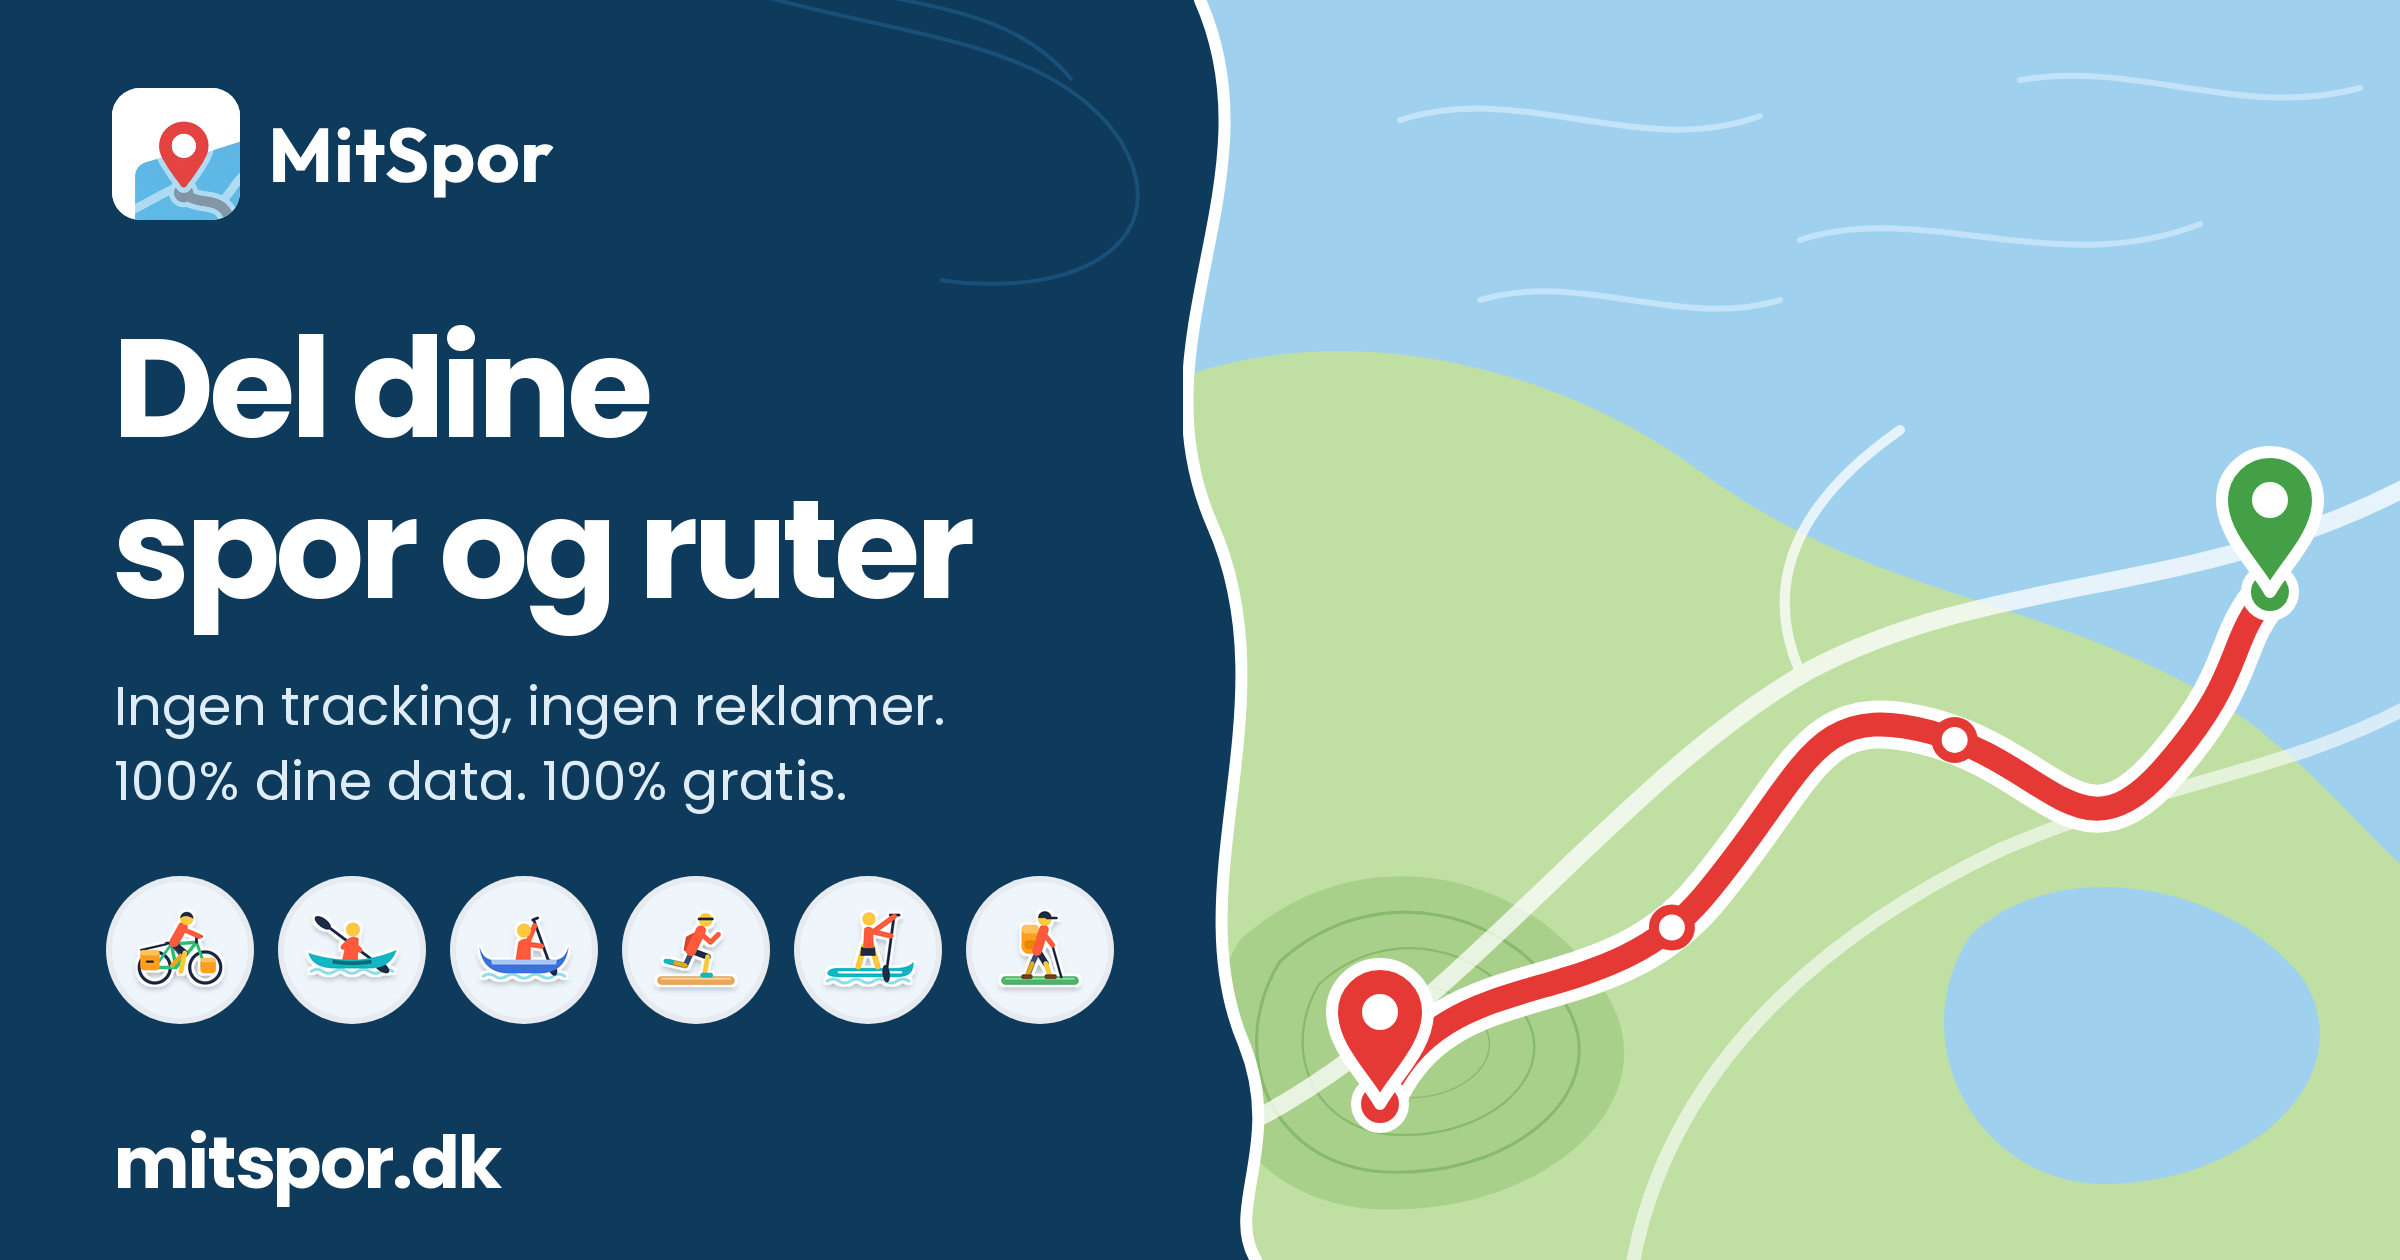
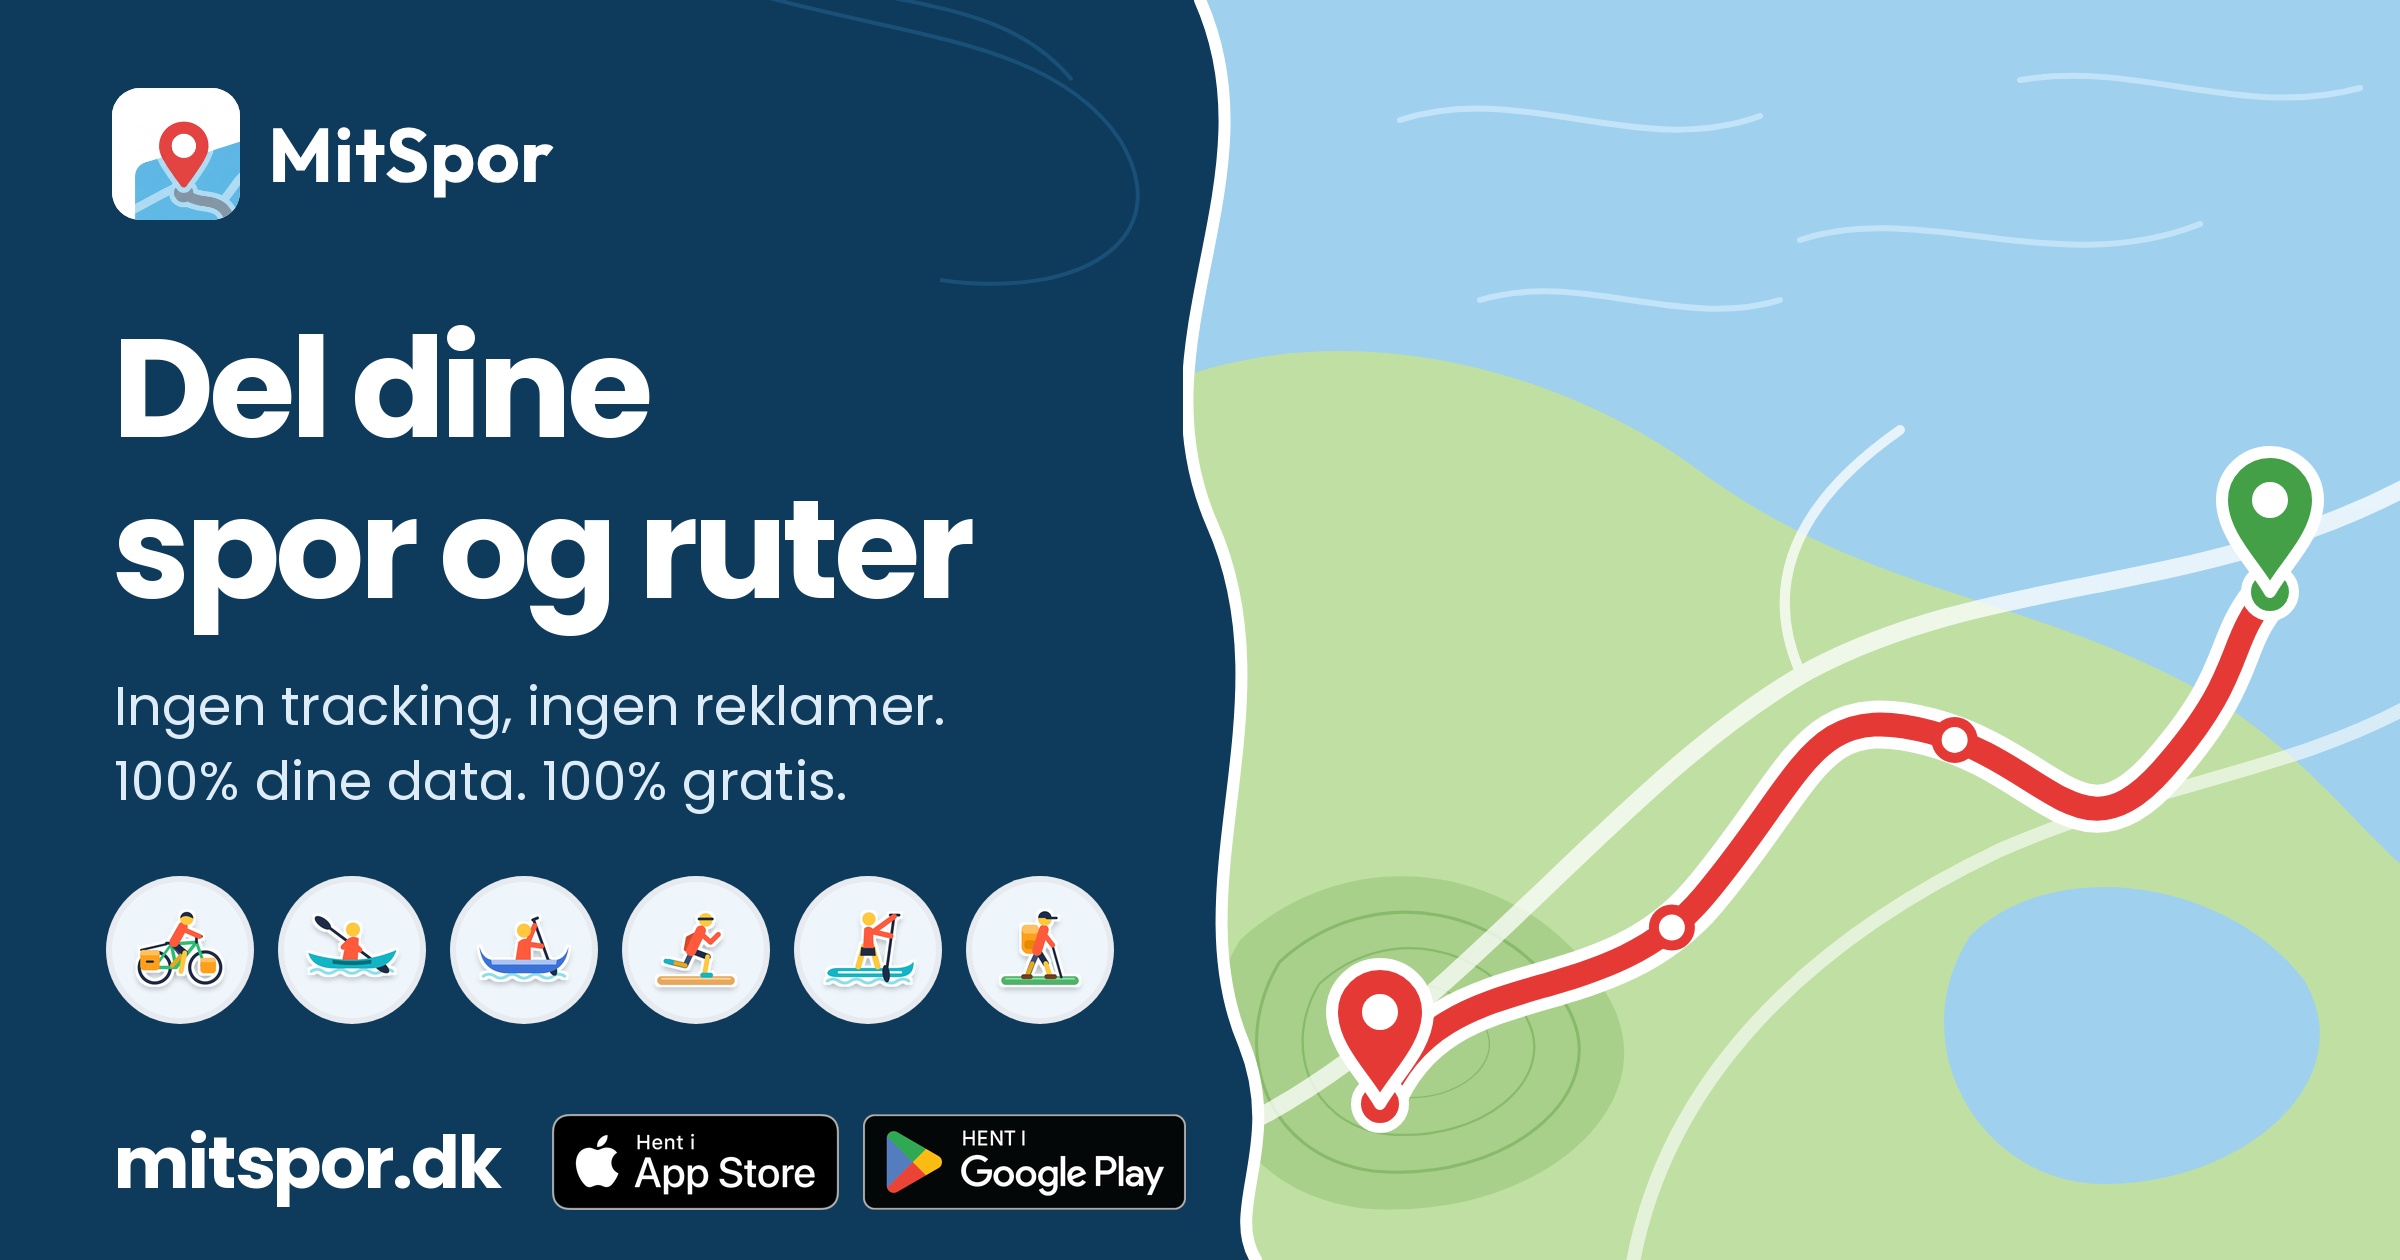
Delingsbillede med App Store og Google Play
mitspor_full.png erstattet af udgaven med butiksknapper. ?v=4 på
og:image, så Facebook m.fl. henter det nye billede.

Changed region(s): [[0.2188, 0.8667, 0.5, 0.9595]]

diff --git a/public/index.php b/public/index.php
@@ -62,7 +62,7 @@ $h = static fn(string $s): string => htmlspecialchars($s, ENT_QUOTES, 'UTF-8');
     <meta property="og:title" content="MitSpor — Del og redigér ruter og spor">
     <meta property="og:description" content="Gratis dansk website til at dele og redigere ruter og spor. Upload dine spor, tegn ruter direkte på kortet, og del dem med andre.">
     <meta property="og:url" content="<?= APP_BASE_URL ?>/">
-    <meta property="og:image" content="<?= APP_BASE_URL ?>/grafik/mitspor_full.png">
+    <meta property="og:image" content="<?= APP_BASE_URL ?>/grafik/mitspor_full.png?v=4">
     <meta name="twitter:card" content="summary_large_image">
 
     <link rel="stylesheet" href="/assets/style.css?v=35">

diff --git a/public/route-view.php b/public/route-view.php
@@ -174,7 +174,7 @@ if ($route['visibility'] === 'public' && $liveEvent === null) {
     $ogImageType = 'image/jpeg';
     $ogImageAlt  = 'Kort over ruten "' . $route['title'] . '"';
 } else {
-    $ogImageUrl  = APP_BASE_URL . '/grafik/mitspor_full.png';
+    $ogImageUrl  = APP_BASE_URL . '/grafik/mitspor_full.png?v=4';
     $ogImageType = 'image/png';
     $ogImageAlt  = 'MitSpor – del dine ture på et kort';
 }

diff --git a/public/group-view.php b/public/group-view.php
@@ -70,7 +70,7 @@ if ($publicMembers) {
     $ogImageType = 'image/jpeg';
     $ogImageAlt = 'Kort over etaperne i ' . $group['title'];
 } else {
-    $ogImageUrl = APP_BASE_URL . '/grafik/mitspor_full.png?v=3';
+    $ogImageUrl = APP_BASE_URL . '/grafik/mitspor_full.png?v=4';
     $ogImageType = 'image/png';
     $ogImageAlt = 'MitSpor – del dine ture på et kort';
 }
